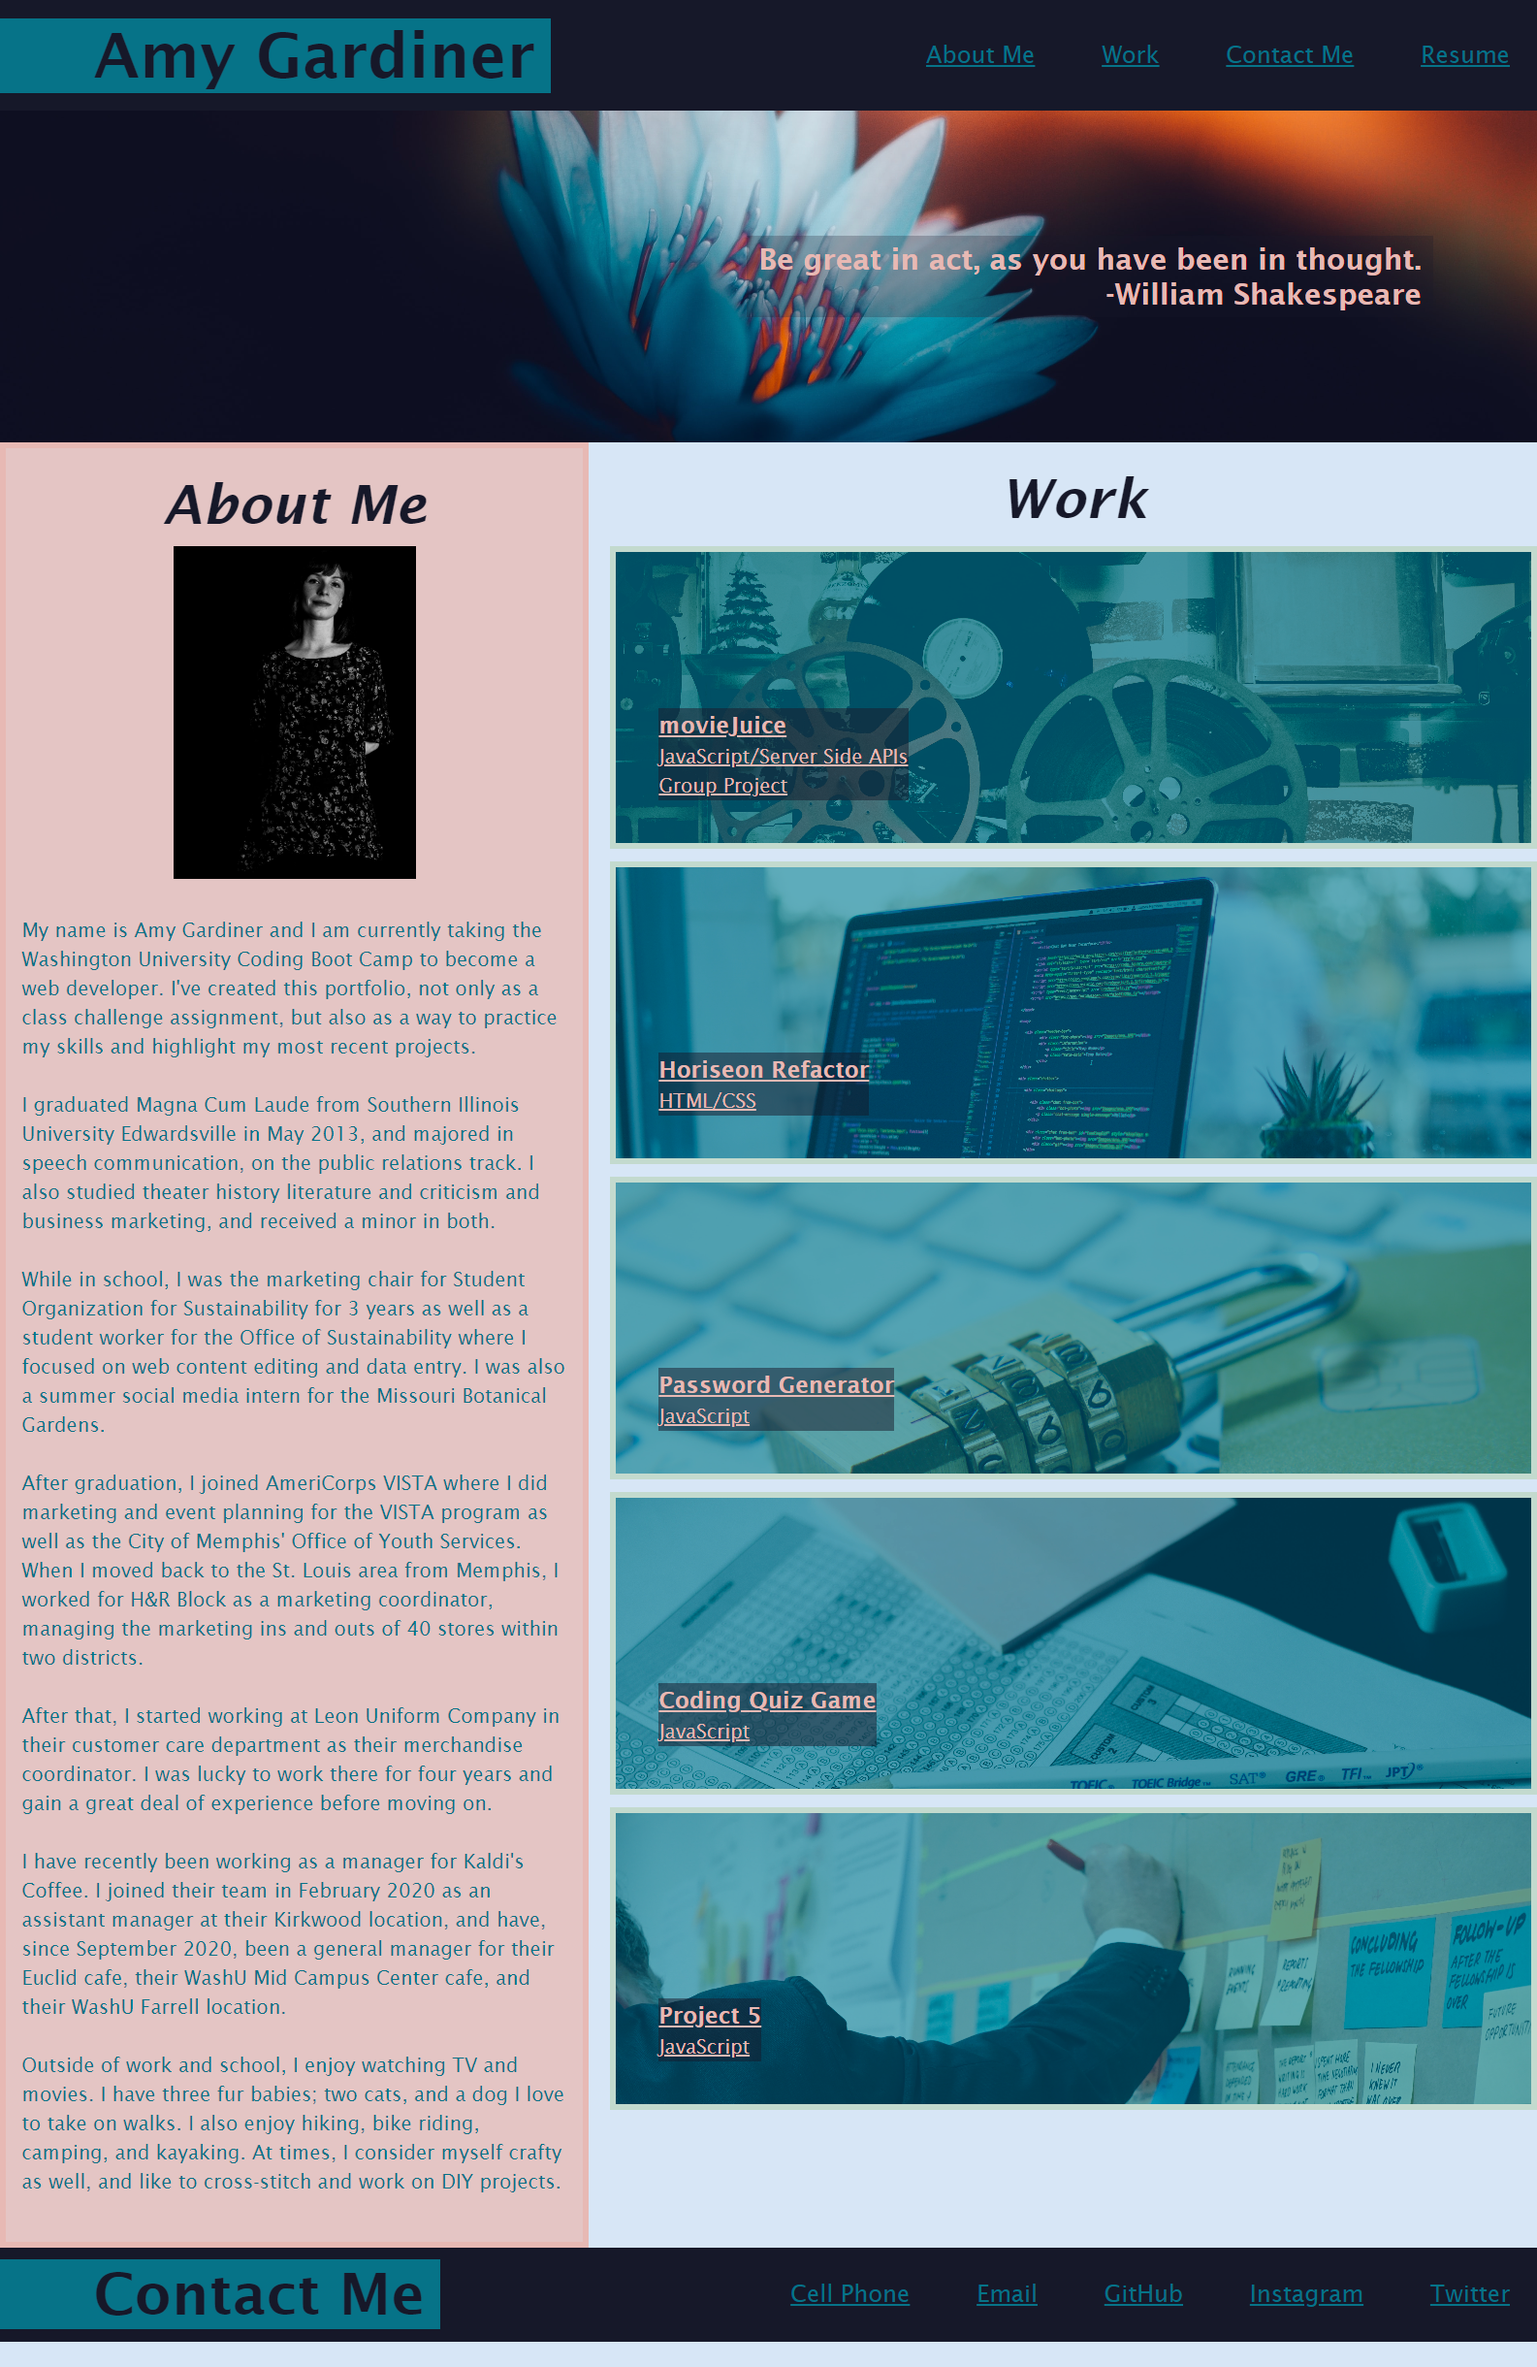
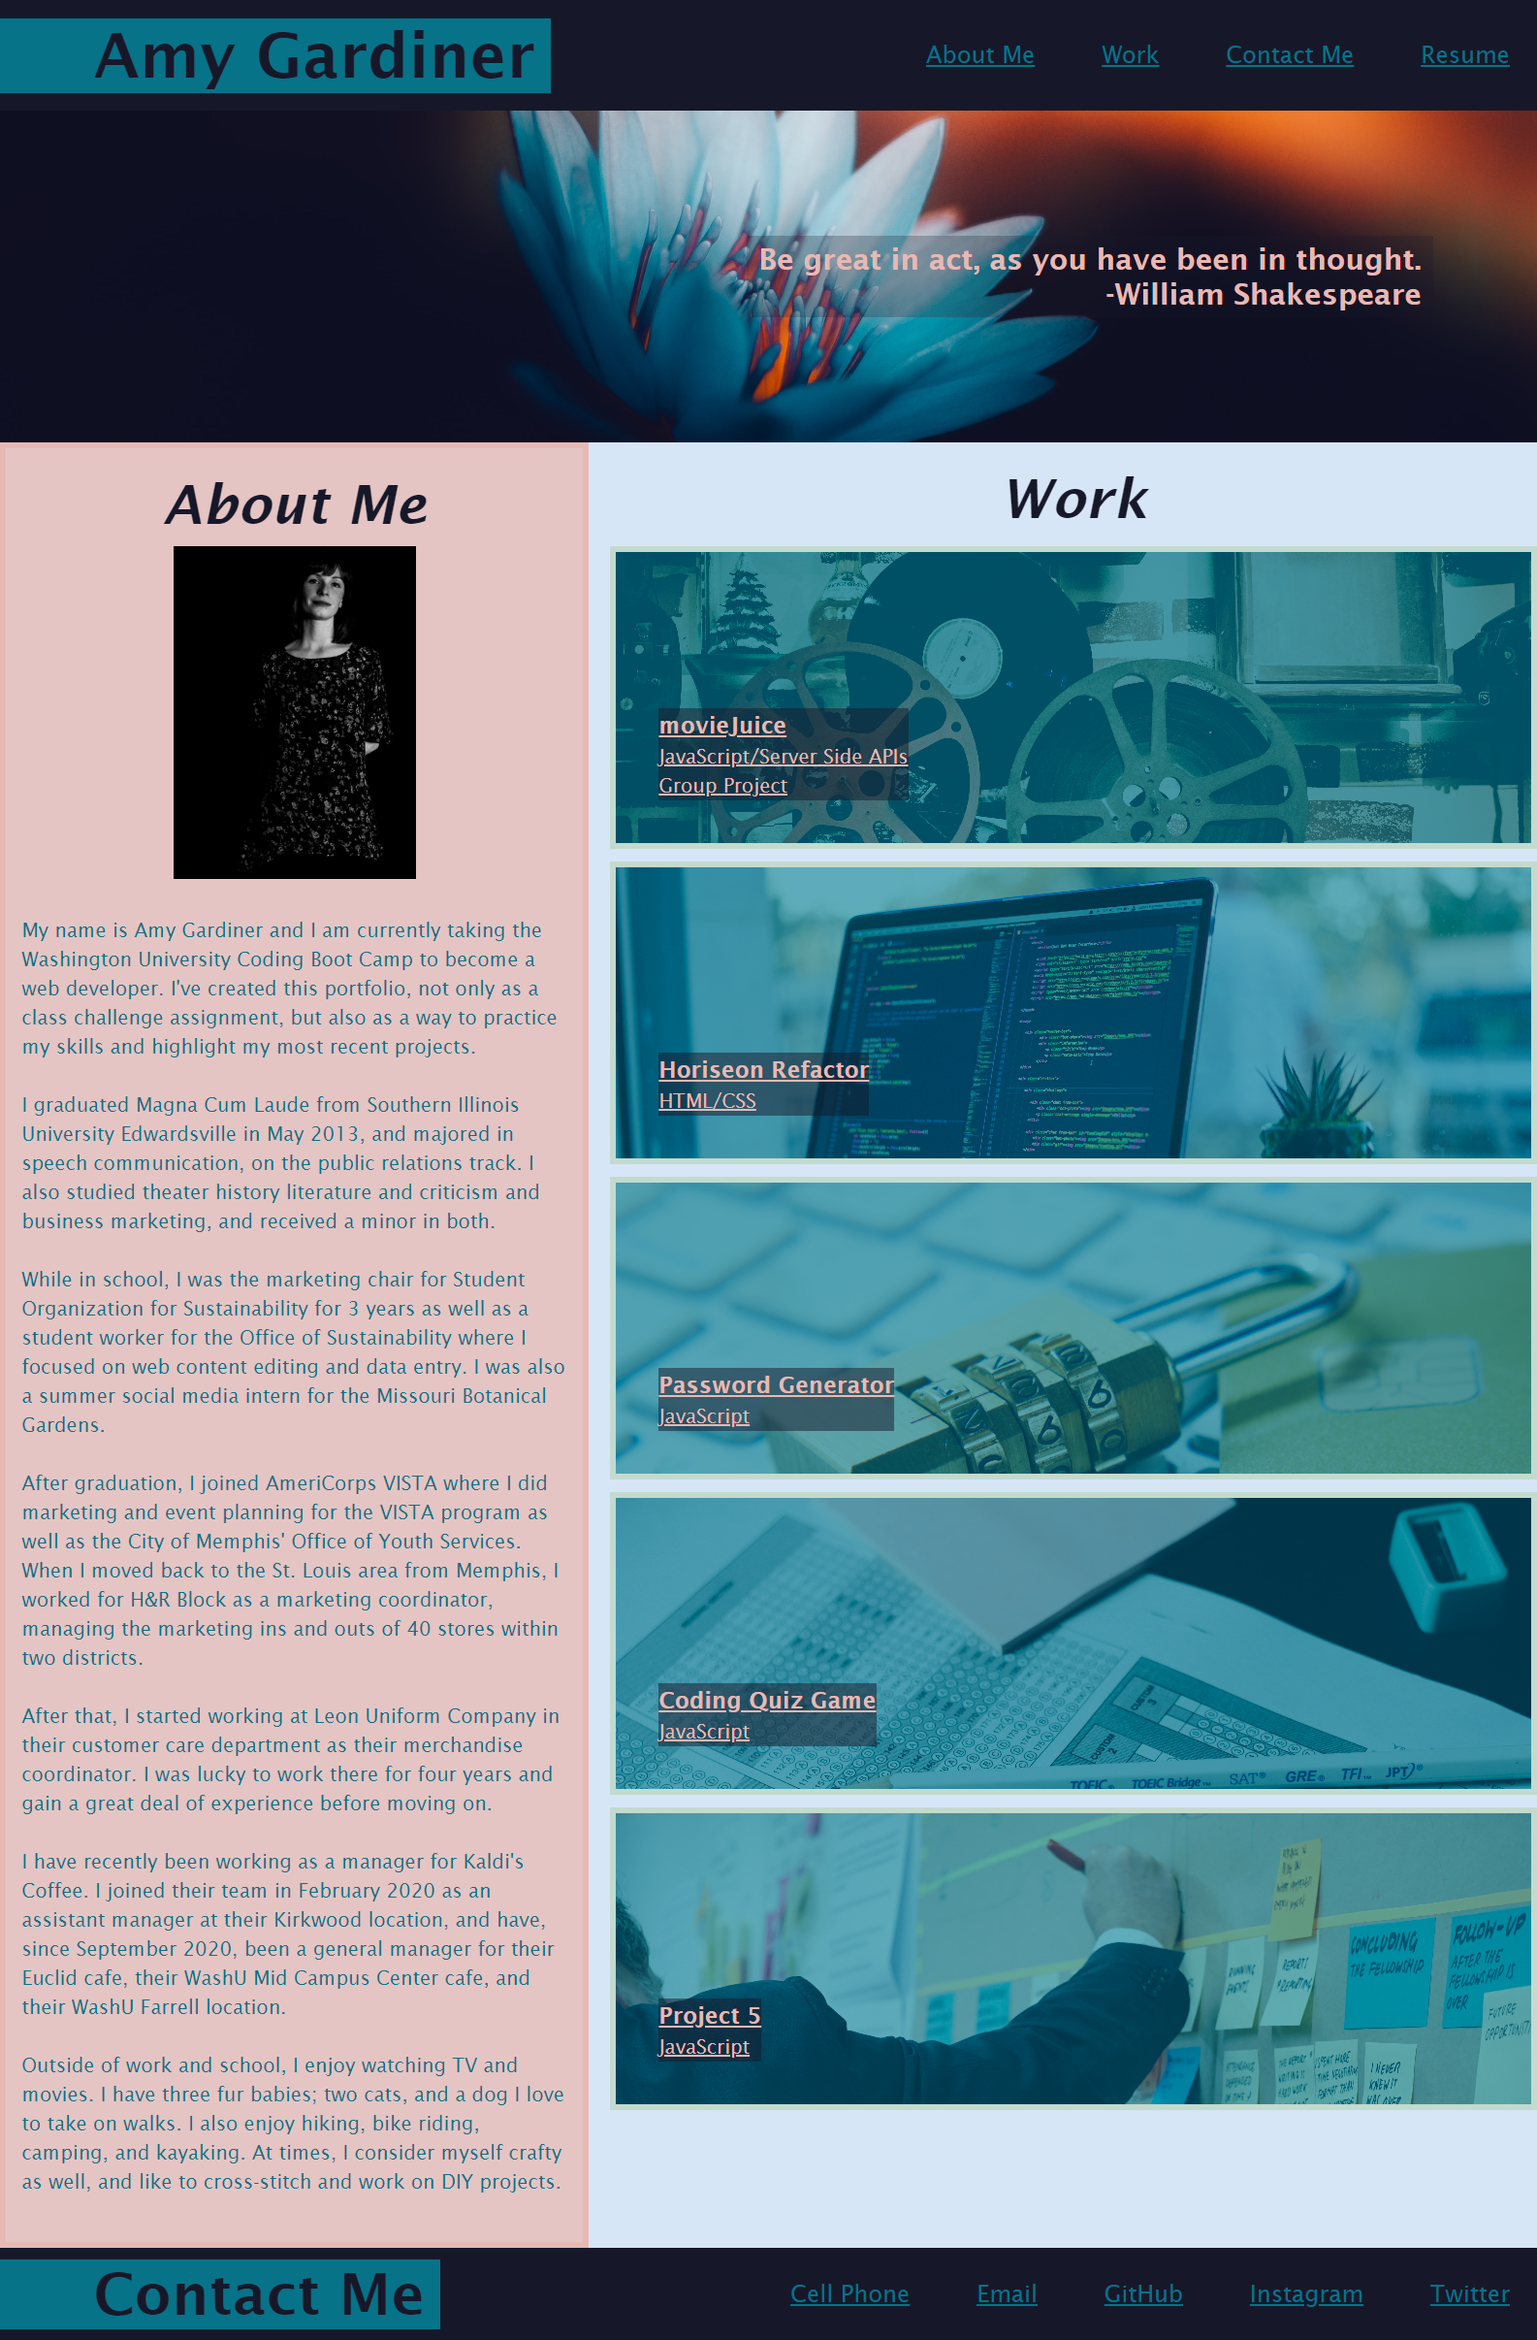
updated readme screenshot again

Changed region(s): [[0.4019, 0.1866, 1.0, 0.9017], [0.0, 0.1866, 1.0, 1.0], [0.4019, 0.0933, 0.9274, 0.1866]]

diff --git a/index.html b/index.html
@@ -34,106 +34,111 @@
     </div>
   </section>
 
-  <!-- About Me -->
-  <section id="about" class="about">
-    <h2 class="section-title">About Me</h2>
-    <div>
-      <img src="./assets/images/120844910_10158808828028328_7413391992851879675_n.jpg" alt="picture of Amy Gardiner" />
-    </div>
-    <br>
-    <p class="text">
-      My name is Amy Gardiner and I am currently taking the Washington
-      University Coding Boot Camp to become a web developer. I've created
-      this portfolio, not only as a class challenge assignment, but also as
-      a way to practice my skills and highlight my most recent projects.
-    </p> </br>
+  <main>
 
-    <p class="text">
-      I graduated Magna Cum Laude from Southern Illinois University
-      Edwardsville in May 2013, and majored in speech communication, on the
-      public relations track. I also studied theater history literature and
-      criticism and business marketing, and received a minor in both.
-    </p> </br>
-
-    <p class="text">
-      While in school, I was the marketing chair for Student Organization
-      for Sustainability for 3 years as well as a student worker for the
-      Office of Sustainability where I focused on web content editing and
-      data entry. I was also a summer social media intern for the Missouri
-      Botanical Gardens.
-    </p> </br>
-
-    <p class="text">
-      After graduation, I joined AmeriCorps VISTA where I did marketing and
-      event planning for the VISTA program as well as the City of Memphis'
-      Office of Youth Services. When I moved back to the St. Louis area from
-      Memphis, I worked for H&R Block as a marketing coordinator, managing
-      the marketing ins and outs of 40 stores within two districts.
-    </p> </br>
-
-    <p class="text">
-      After that, I started working at Leon Uniform Company in their
-      customer care department as their merchandise coordinator. I was lucky
-      to work there for four years and gain a great deal of experience
-      before moving on.
-    </p> </br>
-
-    <p class="text">
-      I have recently been working as a manager for Kaldi's Coffee. I joined
-      their team in February 2020 as an assistant manager at their Kirkwood
-      location, and have, since September 2020, been a general manager for their Euclid cafe,
-      their WashU Mid Campus Center cafe, and their WashU Farrell location.
-    </p> </br>
-
-    <p class="text">
-      Outside of work and school, I enjoy watching TV and movies. I have
-      three fur babies; two cats, and a dog I love to take on walks. I also
-      enjoy hiking, bike riding, camping, and kayaking. At times, I consider
-      myself crafty as well, and like to cross-stitch and work on DIY
-      projects.
-    </p> </br>
-    </div>
-  </section>
-
-  <!-- Work -->
-  <section id="work" class="work">
-    <h2 class="section-title">Work</h2>
-    <a href="https://amymgardiner.github.io/movieJuice/" class="projects moviejuice">
+    <!-- About Me -->
+    <section id="about" class="about">
+      <h2 class="section-title">About Me</h2>
       <div>
-        <h3>movieJuice</h3>
-        <span>JavaScript/Server Side APIs</span><br>
-        <span>Group Project</span>
+        <img src="./assets/images/120844910_10158808828028328_7413391992851879675_n.jpg"
+          alt="picture of Amy Gardiner" />
       </div>
-    </a>
+      <br>
+      <p class="text">
+        My name is Amy Gardiner and I am currently taking the Washington
+        University Coding Boot Camp to become a web developer. I've created
+        this portfolio, not only as a class challenge assignment, but also as
+        a way to practice my skills and highlight my most recent projects.
+      </p> </br>
 
-    <a href="https://amymgardiner.github.io/Horiseon-Refactor/" class="projects horiseon">
-      <div>
-        <h3>Horiseon Refactor</h3>
-        <span>HTML/CSS</span>
-      </div>
-    </a>
+      <p class="text">
+        I graduated Magna Cum Laude from Southern Illinois University
+        Edwardsville in May 2013, and majored in speech communication, on the
+        public relations track. I also studied theater history literature and
+        criticism and business marketing, and received a minor in both.
+      </p> </br>
 
-    <a href="https://amymgardiner.github.io/Password-Generator/" class="projects password">
-      <div>
-        <h3>Password Generator</h3>
-        <span>JavaScript</span>
-      </div>
-    </a>
+      <p class="text">
+        While in school, I was the marketing chair for Student Organization
+        for Sustainability for 3 years as well as a student worker for the
+        Office of Sustainability where I focused on web content editing and
+        data entry. I was also a summer social media intern for the Missouri
+        Botanical Gardens.
+      </p> </br>
 
-    <a href="https://amymgardiner.github.io/Coding-Quiz-Game/" class="projects quiz">
-      <div>
-        <h3>Coding Quiz Game</h3>
-        <span>JavaScript</span>
-      </div>
-    </a>
+      <p class="text">
+        After graduation, I joined AmeriCorps VISTA where I did marketing and
+        event planning for the VISTA program as well as the City of Memphis'
+        Office of Youth Services. When I moved back to the St. Louis area from
+        Memphis, I worked for H&R Block as a marketing coordinator, managing
+        the marketing ins and outs of 40 stores within two districts.
+      </p> </br>
 
-    <a href="https://amymgardiner.github.io/Work-Day-Scheduler/" class="projects scheduler">
-      <div>
-        <h3>Project 5</h3>
-        <span>JavaScript</span>
+      <p class="text">
+        After that, I started working at Leon Uniform Company in their
+        customer care department as their merchandise coordinator. I was lucky
+        to work there for four years and gain a great deal of experience
+        before moving on.
+      </p> </br>
+
+      <p class="text">
+        I have recently been working as a manager for Kaldi's Coffee. I joined
+        their team in February 2020 as an assistant manager at their Kirkwood
+        location, and have, since September 2020, been a general manager for their Euclid cafe,
+        their WashU Mid Campus Center cafe, and their WashU Farrell location.
+      </p> </br>
+
+      <p class="text">
+        Outside of work and school, I enjoy watching TV and movies. I have
+        three fur babies; two cats, and a dog I love to take on walks. I also
+        enjoy hiking, bike riding, camping, and kayaking. At times, I consider
+        myself crafty as well, and like to cross-stitch and work on DIY
+        projects.
+      </p> </br>
       </div>
-    </a>
-  </section>
+    </section>
+
+    <!-- Work -->
+    <section id="work" class="work">
+      <h2 class="section-title">Work</h2>
+      <a href="https://amymgardiner.github.io/movieJuice/" class="projects moviejuice">
+        <div>
+          <h3>movieJuice</h3>
+          <span>JavaScript/Server Side APIs</span><br>
+          <span>Group Project</span>
+        </div>
+      </a>
+
+      <a href="https://amymgardiner.github.io/Horiseon-Refactor/" class="projects horiseon">
+        <div>
+          <h3>Horiseon Refactor</h3>
+          <span>HTML/CSS</span>
+        </div>
+      </a>
+
+      <a href="https://amymgardiner.github.io/Password-Generator/" class="projects password">
+        <div>
+          <h3>Password Generator</h3>
+          <span>JavaScript</span>
+        </div>
+      </a>
+
+      <a href="https://amymgardiner.github.io/Coding-Quiz-Game/" class="projects quiz">
+        <div>
+          <h3>Coding Quiz Game</h3>
+          <span>JavaScript</span>
+        </div>
+      </a>
+
+      <a href="https://amymgardiner.github.io/Work-Day-Scheduler/" class="projects scheduler">
+        <div>
+          <h3>Project 5</h3>
+          <span>JavaScript</span>
+        </div>
+      </a>
+    </section>
+
+  </main>
 
   <!-- Contact Me -->
   <footer id="contact">

diff --git a/assets/style.css b/assets/style.css
@@ -127,7 +127,7 @@ header h1 {
     border: 5px solid var(--secondary);
     background-color: var(--primary);
     color: var(--tertiary);
-    height: 105px;
+    height: 100px;
     width: -webkit-fill-available;
     padding: 35px;
     margin: 5px;
@@ -176,6 +176,7 @@ header h1 {
 footer {
     background-color: var(--dark);
     padding: 10px 0 10px 0;
+    position: relative;
     display: flex;
     flex-direction: row;
     justify-content: space-between;
